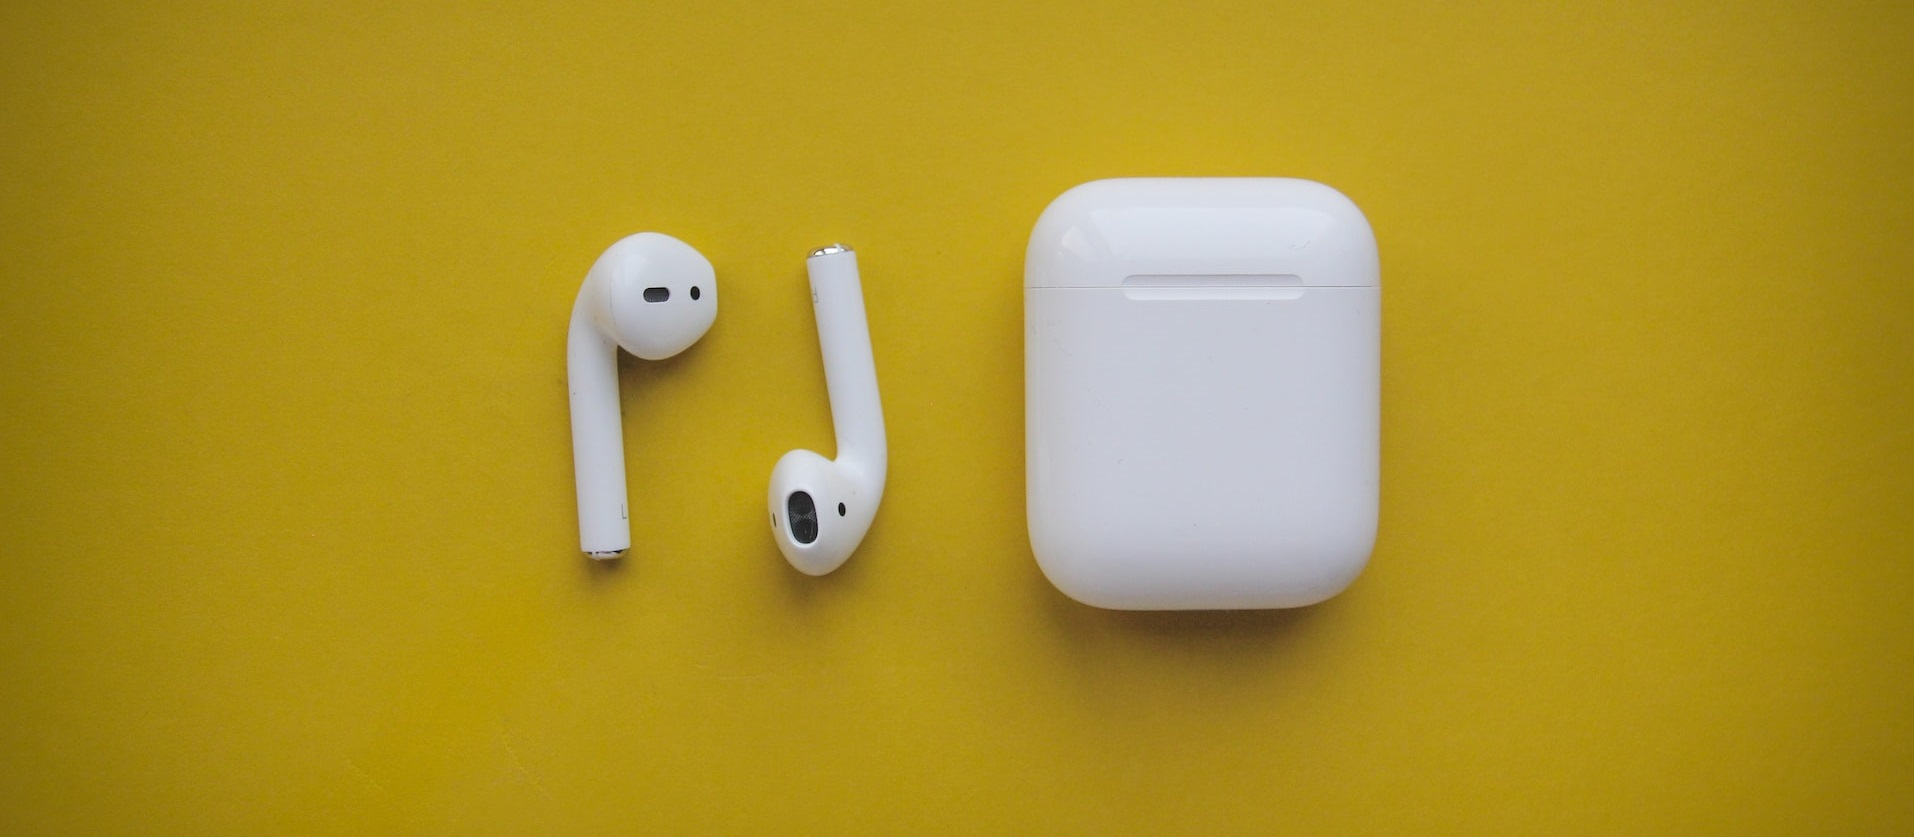
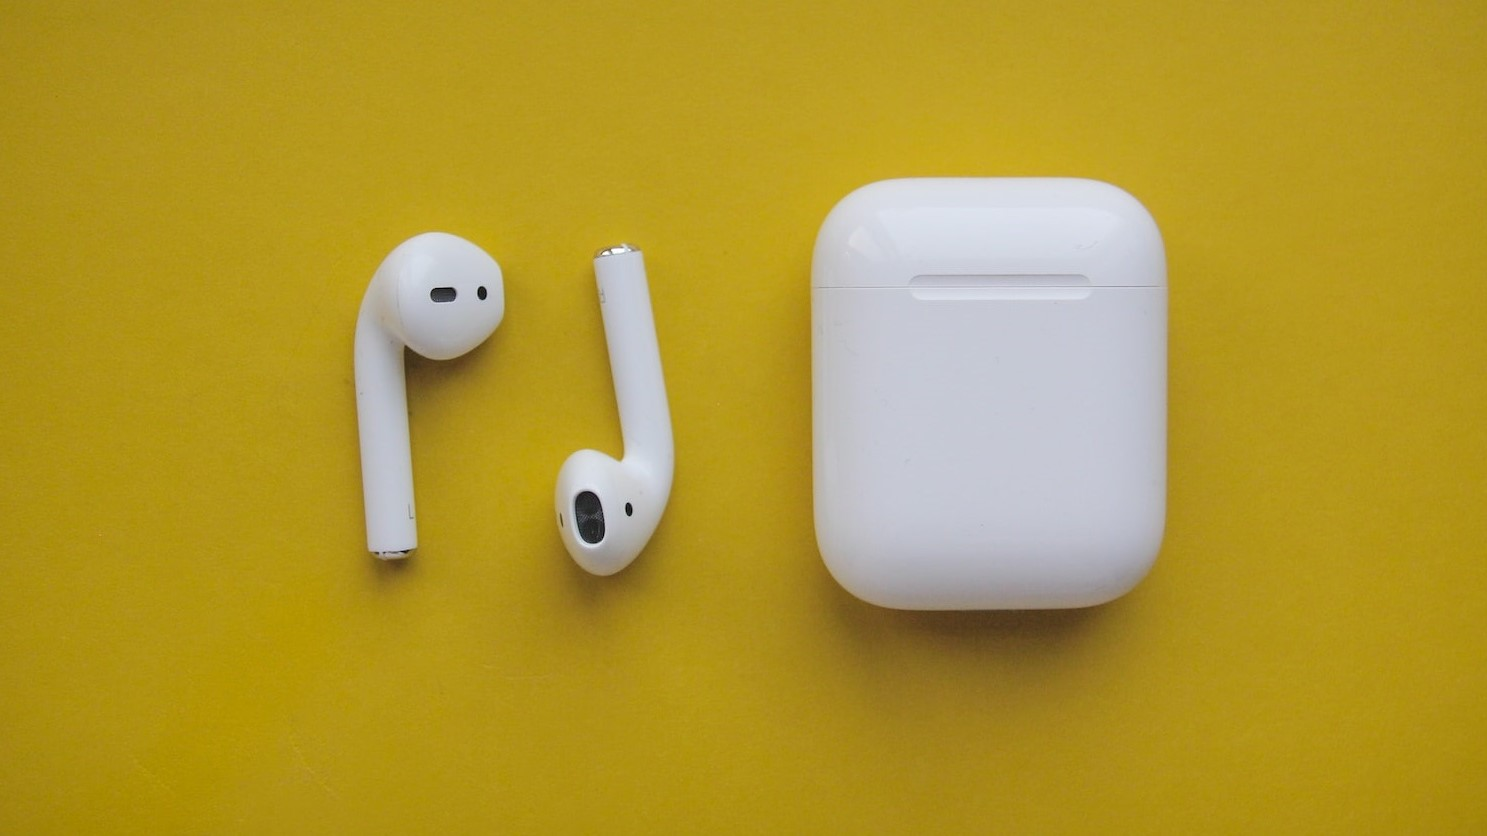
updated assets and carousel

diff --git a/src/components/ProductCarousel.js b/src/components/ProductCarousel.js
@@ -15,7 +15,7 @@ const ProductCarousel = () => {
         {showcaseProducts.map(item => (
             <CarouselItem key={item._id}>
                 <Link to={`/product/${item._id}`}>
-                    <Image src={item.bannerImage.url} alt={item.bannerImage.name}/>
+                    <Image src={item.bannerImage.url} alt={item.bannerImage.name} className="d-block w-100"/>
                     {/* <Carousel.Caption className='carousel-caption'>
                         <h2>{item.name} ({currencyFormatter(item.price)})</h2>
                     </Carousel.Caption> */}

diff --git a/src/pages/OrderListPage.js b/src/pages/OrderListPage.js
@@ -9,7 +9,6 @@ import Message from '../components/Message'
 import Loader from '../components/Loader'
 import PromptModal from '../components/PromptModal'
 import EditIcon from '@mui/icons-material/Edit';
-import DeleteIcon from '@mui/icons-material/Delete';
 import CloseIcon from '@mui/icons-material/Close';
 import CheckCircleOutlineIcon from '@mui/icons-material/CheckCircleOutline';
 import currencyFormatter from "../utils/currencyFormatter"

diff --git a/src/index.css b/src/index.css
@@ -64,7 +64,9 @@ svg {
 }
 
 .carousel-component {
-    height: 450px;
+    max-height: 600px;
+    max-width: 1250px;
+    margin: 0 auto;
     overflow: hidden;
 
 }
